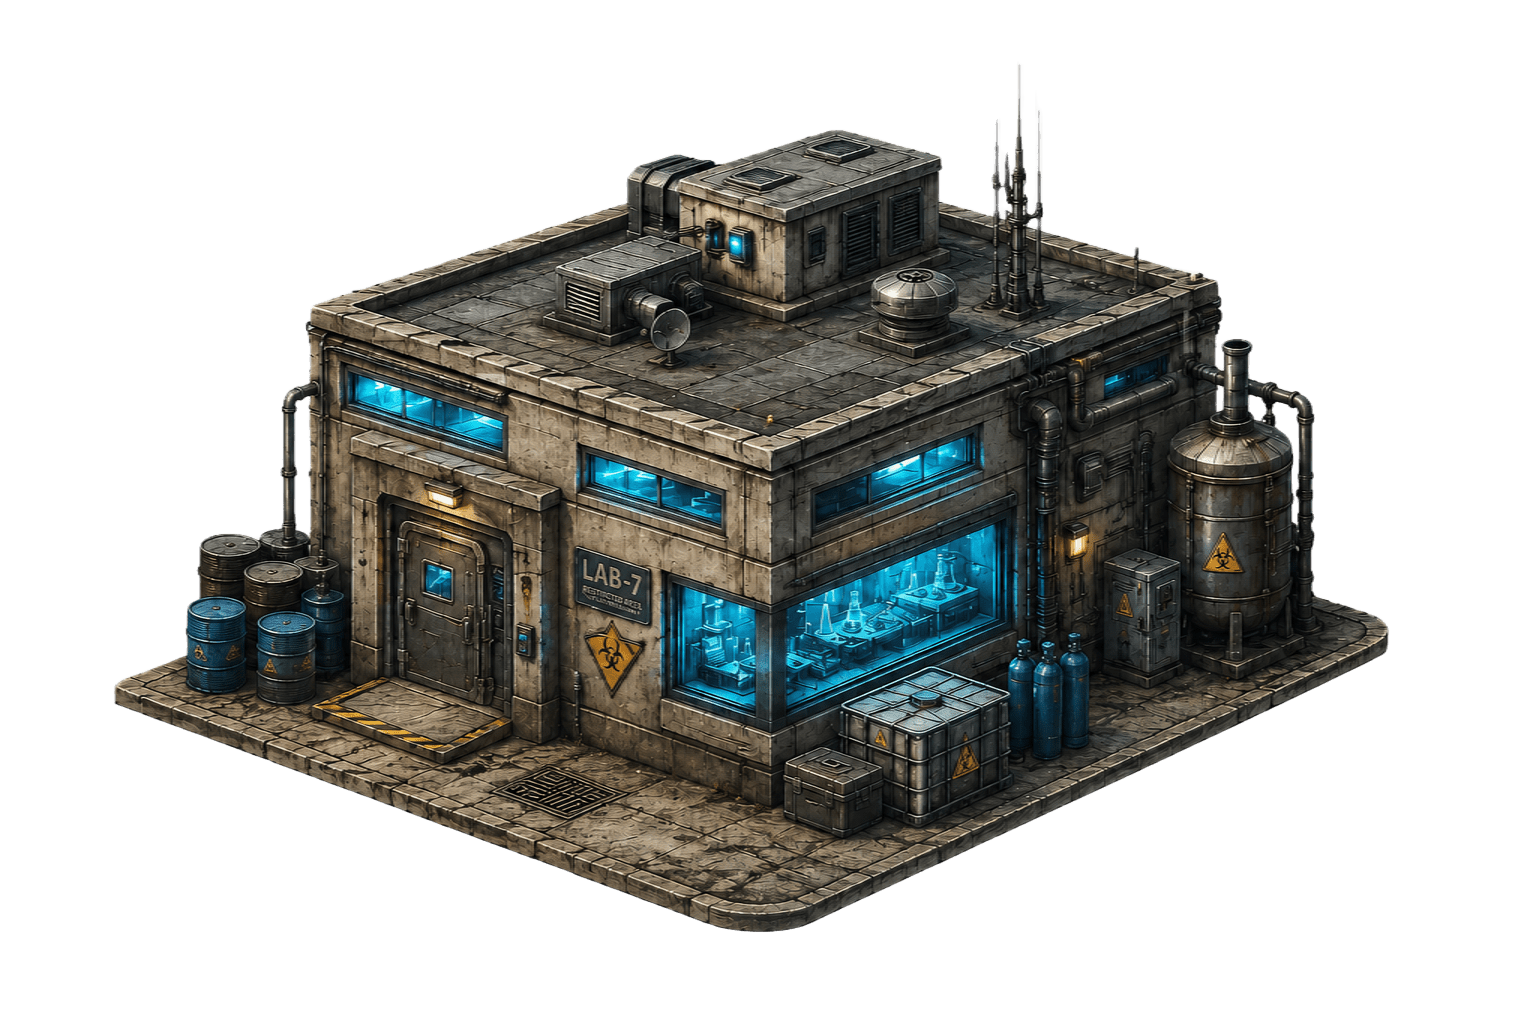
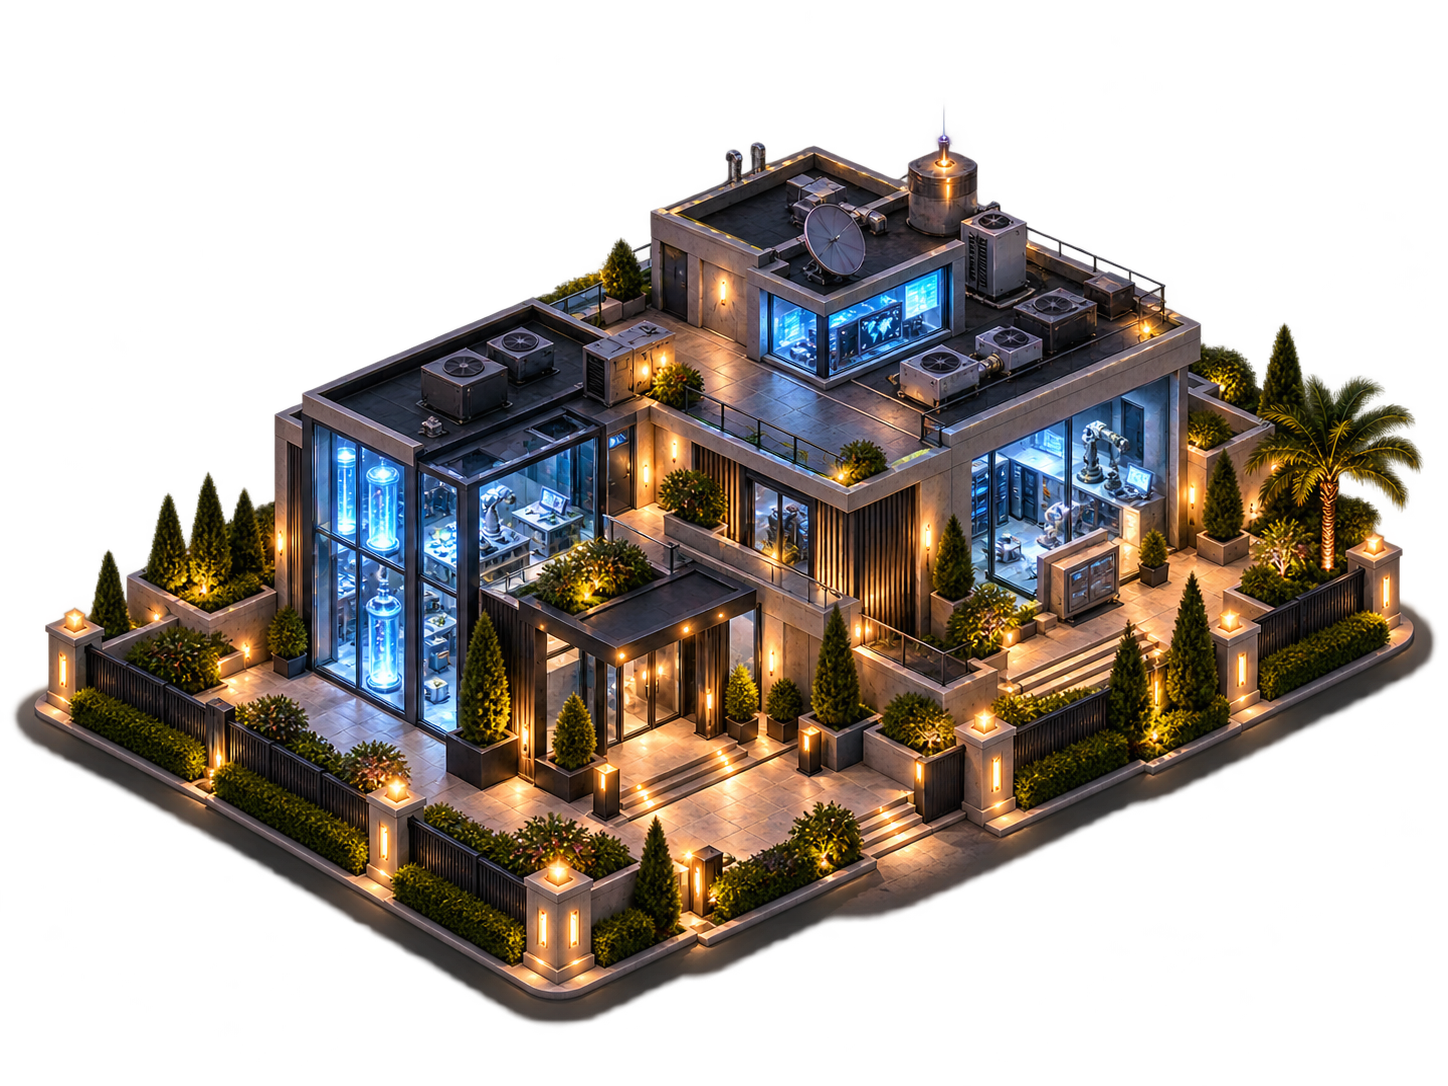
fix v2

diff --git a/src/components/map/GameMap.tsx b/src/components/map/GameMap.tsx
@@ -102,6 +102,17 @@ const DEFAULT_WORLD_SIZE: WorldSize = {
   height: 900,
 }
 
+const LUXURY_CITY_BACKGROUND = "/game-assets/city-map-luxe.webp"
+const LUXURY_BUILDING_ASSETS: Record<BuildingType, string> = {
+  villa: "/game-assets/villa-luxe.webp",
+  workshop: "/game-assets/workshop-luxe.webp",
+  hideout: "/game-assets/hideout-luxe.webp",
+  wall: "/game-assets/wall-luxe.webp",
+  laboratory: "/game-assets/laboratory-luxe.webp",
+  syndicate: "/game-assets/syndicate-luxe.webp",
+  factory: "/game-assets/factory-luxe.webp",
+}
+
 export default function GameMap({
   cityId,
   buildings,
@@ -203,7 +214,7 @@ export default function GameMap({
       return true
     }
   })
-  // Purely visual, reversible V2.1. Never touches Supabase or player progression.
+  // Bloc 1 graphique premium : entièrement visuel et réversible. Aucun impact sur Supabase ni la progression.
   const [artStyle, setArtStyle] = useState<"classic" | "luxury">(() => {
     try {
       return window.localStorage.getItem("crime-empire-city-art") === "classic"
@@ -1241,7 +1252,7 @@ export default function GameMap({
         )}
         <img
           src={artStyle === "luxury"
-            ? "/game-assets/city-map-v2.webp"
+            ? LUXURY_CITY_BACKGROUND
             : "/game-assets/city-map.webp"}
           alt="Carte de la ville"
           className="pointer-events-none absolute inset-0 h-full w-full select-none"
@@ -1437,8 +1448,8 @@ export default function GameMap({
                 <div className="pointer-events-none absolute bottom-[-2%] left-1/2 h-[12%] w-[70%] -translate-x-1/2 rounded-full bg-black/50 blur-md" />
 
                 <img
-                  src={artStyle === "luxury" && building.type === "villa"
-                    ? "/game-assets/villa-v2.webp"
+                  src={artStyle === "luxury"
+                    ? LUXURY_BUILDING_ASSETS[building.type]
                     : `/game-assets/${building.type}.webp`}
                   alt={
                     buildingName
@@ -1567,7 +1578,7 @@ export default function GameMap({
               : "border-white/30 bg-zinc-950/85 text-white/80 hover:bg-zinc-800"
           }`}
         >
-          {artStyle === "luxury" ? "✦ Ville V2.1 · Luxe" : "↺ Ville V1 · Originale"}
+          {artStyle === "luxury" ? "✦ Ville Premium · Bloc 1" : "↺ Ville Classique"}
         </button>
         <button
           type="button"

diff --git a/src/components/map/PixiCityScene.tsx b/src/components/map/PixiCityScene.tsx
@@ -34,8 +34,7 @@ type AnimatedGlow = {
 }
 
 const CITY_GROUND = "/game-assets/city-map.webp"
-const CITY_GROUND_V2 = "/game-assets/city-map-v2.webp"
-const VILLA_V2 = "/game-assets/villa-v2.webp"
+const CITY_GROUND_LUXURY = "/game-assets/city-map-luxe.webp"
 const HELICOPTER = "/game-assets/helicopter.webp"
 const BUILDING_IMAGES = [
   "villa",
@@ -46,6 +45,15 @@ const BUILDING_IMAGES = [
   "syndicate",
   "factory",
 ] as const
+const LUXURY_BUILDING_ASSETS: Record<(typeof BUILDING_IMAGES)[number], string> = {
+  villa: "/game-assets/villa-luxe.webp",
+  workshop: "/game-assets/workshop-luxe.webp",
+  hideout: "/game-assets/hideout-luxe.webp",
+  wall: "/game-assets/wall-luxe.webp",
+  laboratory: "/game-assets/laboratory-luxe.webp",
+  syndicate: "/game-assets/syndicate-luxe.webp",
+  factory: "/game-assets/factory-luxe.webp",
+}
 const DEG_TO_RAD = Math.PI / 180
 
 /**
@@ -122,7 +130,7 @@ export default function PixiCityScene({
       if (app.renderer.screen.width !== frame.width || app.renderer.screen.height !== frame.height) {
         app.renderer.resize(frame.width, frame.height)
       }
-      background.texture = textures[frame.artStyle === "luxury" ? CITY_GROUND_V2 : CITY_GROUND]
+      background.texture = textures[frame.artStyle === "luxury" ? CITY_GROUND_LUXURY : CITY_GROUND]
       background.width = frame.width
       background.height = frame.height
 
@@ -165,8 +173,8 @@ export default function PixiCityScene({
       for (const building of frame.buildings) {
         const placement = frame.placements[building.type]
         const texture = textures[
-          frame.artStyle === "luxury" && building.type === "villa"
-            ? VILLA_V2
+          frame.artStyle === "luxury"
+            ? LUXURY_BUILDING_ASSETS[building.type]
             : `/game-assets/${building.type}.webp`
         ]
         if (!placement || !texture) continue
@@ -298,10 +306,10 @@ export default function PixiCityScene({
 
         const urls = [
           CITY_GROUND,
-          CITY_GROUND_V2,
-          VILLA_V2,
+          CITY_GROUND_LUXURY,
           HELICOPTER,
           ...BUILDING_IMAGES.map((type) => `/game-assets/${type}.webp`),
+          ...BUILDING_IMAGES.map((type) => LUXURY_BUILDING_ASSETS[type]),
         ]
         // Si une image manque, le DOM classique reste affiché :
         // pas d'écran noir et pas de sauvegarde touchée.

diff --git a/PHASE_BLOC_1_PREMIUM.md b/PHASE_BLOC_1_PREMIUM.md
@@ -1,0 +1,40 @@
+# Crime Empire — Bloc 1 Premium
+
+Ce patch met en place le **Bloc 1** de la refonte visuelle dans la ville.
+
+## Contenu
+
+- Nouveau terrain premium séparé : `public/game-assets/city-map-luxe.webp`
+- Nouveaux bâtiments premium séparés :
+  - `villa-luxe.webp`
+  - `wall-luxe.webp`
+  - `syndicate-luxe.webp`
+  - `workshop-luxe.webp`
+  - `hideout-luxe.webp`
+  - `factory-luxe.webp`
+  - `laboratory-luxe.webp`
+- Remplacement des images de `public/buildings/*.png` pour que les modales, l'éditeur et les visuels secondaires suivent la nouvelle direction artistique.
+- Mise à jour de `GameMap.tsx` et `PixiCityScene.tsx` pour que le mode **luxury** charge tous les nouveaux assets au lieu de ne changer que le terrain et la villa.
+
+## Mapping choisi
+
+- `villa` → `manoir_méditerranéen_luxueux_au_crépuscule.png`
+- `syndicate` → `qg_mafieux_luxueux_illuminé.png`
+- `wall` → `qg_de_sécurité_fortifié_nocturne.png`
+- `workshop` → `garage_automobile_de_luxe_illuminé_de_nuit.png`
+- `hideout` → `planque_industrielle_clandestine_éclairée_de_nuit.png`
+- `factory` → `complexe_industriel_illuminé_de_nuit.png`
+- `laboratory` → `manoir_laboratoire_secret_high_tech.png`
+
+## Important
+
+Ce patch reste **visuel uniquement** :
+- aucun changement Supabase
+- aucune modification des sauvegardes
+- aucun impact sur les niveaux ou les constructions
+
+## Intégration
+
+1. Décompresser le patch à la racine du projet.
+2. Lancer le projet.
+3. Utiliser le bouton `Ville Premium · Bloc 1` dans la ville pour afficher les nouveaux assets.
